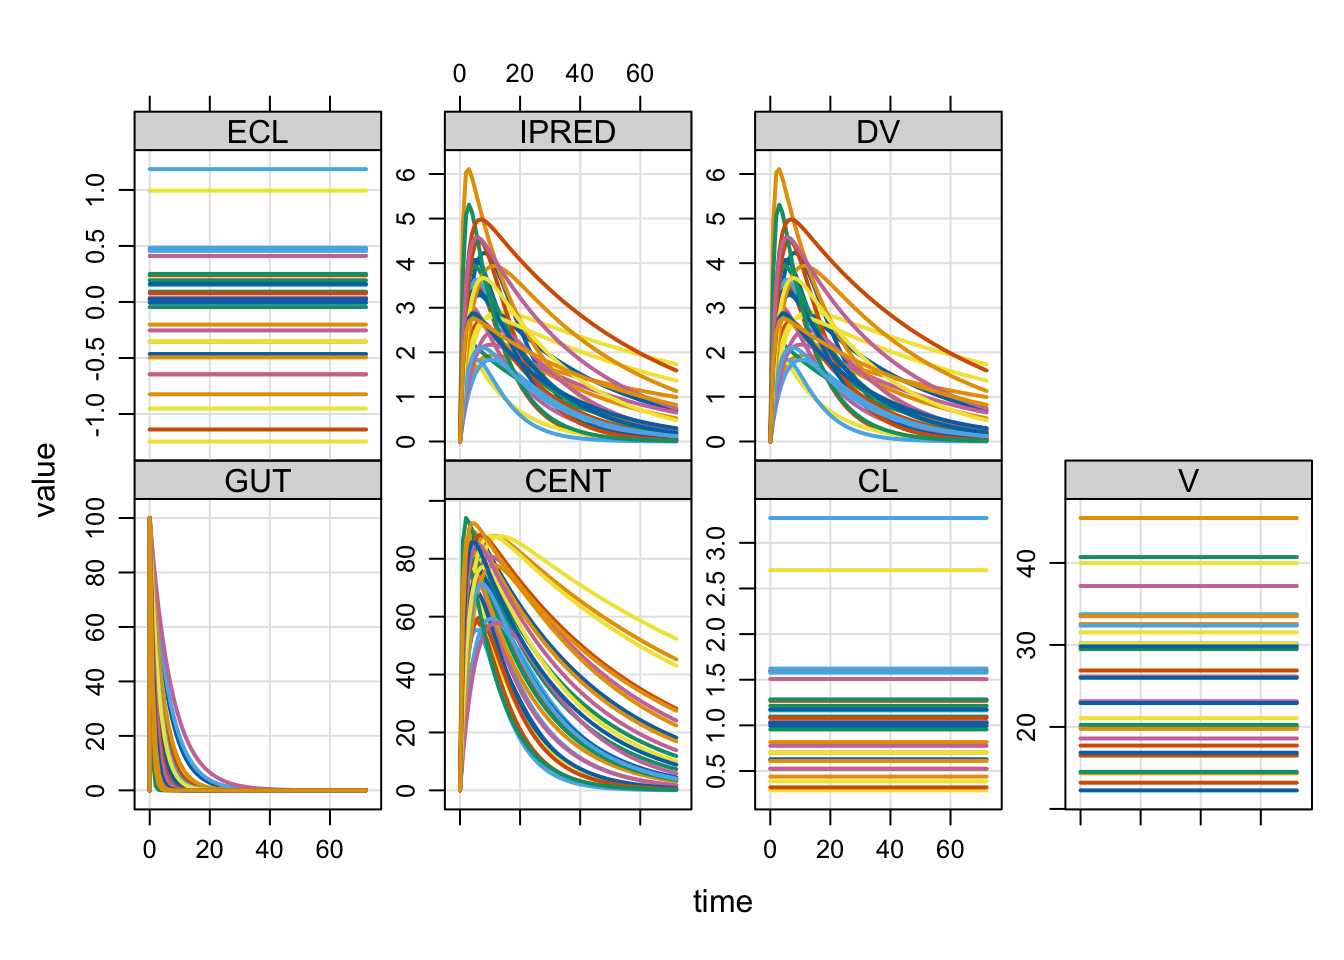
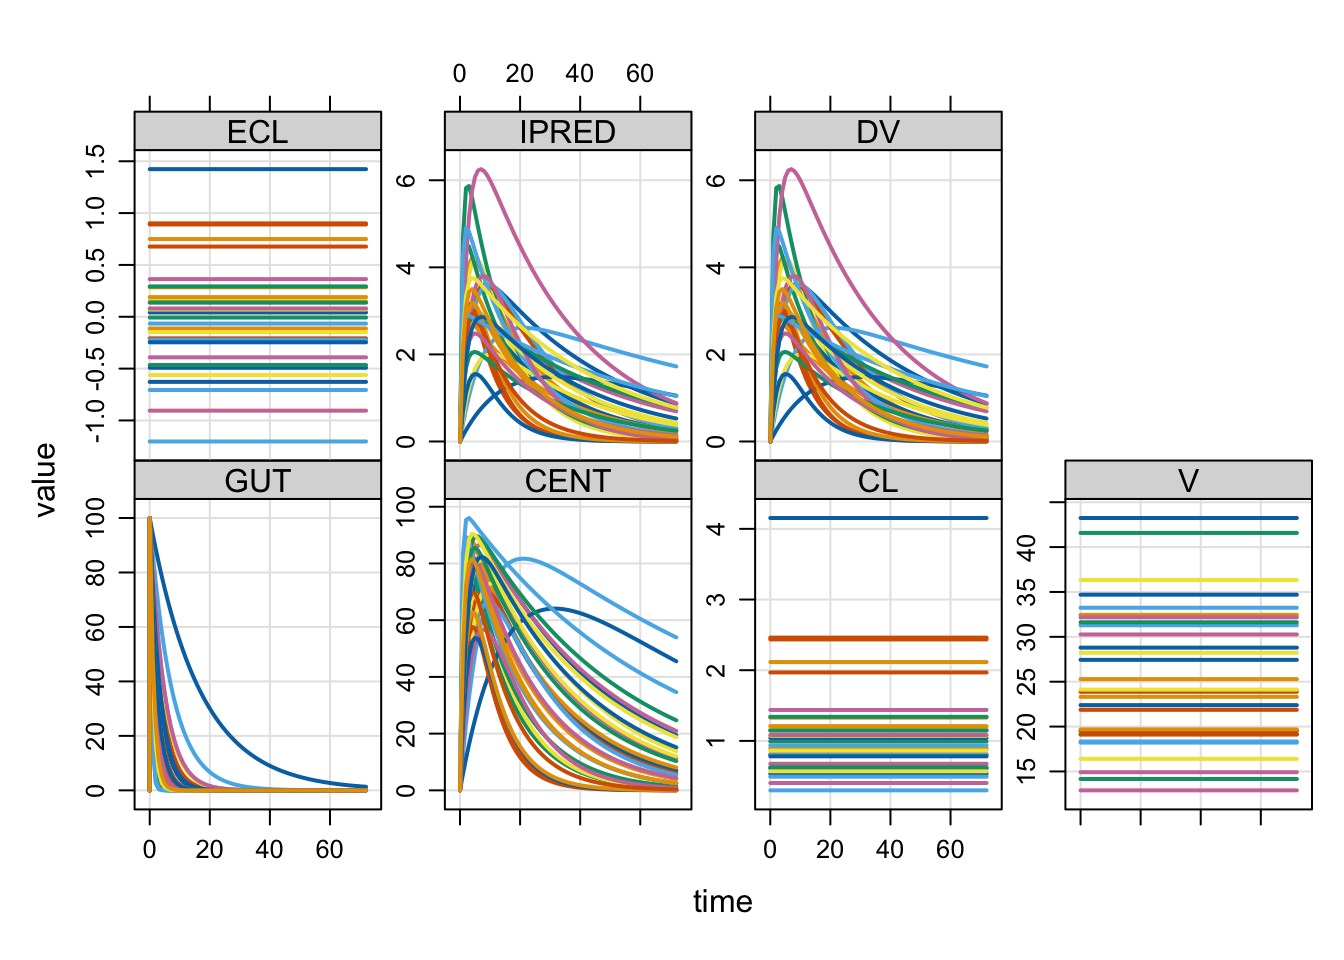
sections

diff --git a/docs/posts/new-0-10-7.html b/docs/posts/new-0-10-7.html
@@ -378,15 +378,15 @@ $capture
 Dim:    482 x 10 
 Time:   0 to 240 
 ID:     1 
-    ID time    GUT  CENT     CL     DV ETA_1 WT IPRED V
-1:   1  0.0   0.00  0.00 0.7503 0.0000     0  0     0 0
-2:   1  0.0 100.00  0.00 0.7503 0.0000     0  0     0 0
-3:   1  0.5  80.65 19.24 0.7503 0.5208     0  0     0 0
-4:   1  1.0  65.05 34.57 0.7503 0.9356     0  0     0 0
-5:   1  1.5  52.47 46.74 0.7503 1.2649     0  0     0 0
-6:   1  2.0  42.32 56.37 0.7503 1.5254     0  0     0 0
-7:   1  2.5  34.13 63.94 0.7503 1.7304     0  0     0 0
-8:   1  3.0  27.53 69.86 0.7503 1.8907     0  0     0 0</code></pre>
+    ID time    GUT   CENT   CL     DV    ETA_1 WT  IPRED     V
+1:   1  0.0   0.00  0.000 1.01 0.0000 0.009931 70 0.0000 31.96
+2:   1  0.0 100.00  0.000 1.01 0.0000 0.009931 70 0.0000 31.96
+3:   1  0.5  90.05  9.869 1.01 0.3088 0.009931 70 0.3088 31.96
+4:   1  1.0  81.09 18.601 1.01 0.5820 0.009931 70 0.5820 31.96
+5:   1  1.5  73.03 26.312 1.01 0.8233 0.009931 70 0.8233 31.96
+6:   1  2.0  65.76 33.106 1.01 1.0359 0.009931 70 1.0359 31.96
+7:   1  2.5  59.22 39.077 1.01 1.2228 0.009931 70 1.2228 31.96
+8:   1  3.0  53.33 44.308 1.01 1.3865 0.009931 70 1.3865 31.96</code></pre>
 </div>
 </div>
 <p>This is temporary until the model is re-compiled again</p>
@@ -456,15 +456,15 @@ $capture
 Dim:    482 x 3 
 Time:   0 to 240 
 ID:     1 
-    ID time IPRED
-1:   1  0.0 0.000
-2:   1  0.0 0.000
-3:   1  0.5 3.469
-4:   1  1.0 4.857
-5:   1  1.5 5.278
-6:   1  2.0 5.256
-7:   1  2.5 5.041
-8:   1  3.0 4.750</code></pre>
+    ID time  IPRED
+1:   1  0.0 0.0000
+2:   1  0.0 0.0000
+3:   1  0.5 0.4954
+4:   1  1.0 0.8817
+5:   1  1.5 1.1770
+6:   1  2.0 1.3967
+7:   1  2.5 1.5537
+8:   1  3.0 1.6593</code></pre>
 </div>
 </div>
 <p>Remember, we can still ask for non-numeric items to be brought into the data set with the <code>recover</code> argument</p>
@@ -478,12 +478,12 @@ ID:     1
     ID time IPRED name     state
 1:   1  0.0 0.000 KYLE minnesota
 2:   1  0.0 0.000 KYLE minnesota
-3:   1  0.5 1.798 KYLE minnesota
-4:   1  1.0 2.817 KYLE minnesota
-5:   1  1.5 3.383 KYLE minnesota
-6:   1  2.0 3.687 KYLE minnesota
-7:   1  2.5 3.840 KYLE minnesota
-8:   1  3.0 3.904 KYLE minnesota</code></pre>
+3:   1  0.5 0.982 KYLE minnesota
+4:   1  1.0 1.670 KYLE minnesota
+5:   1  1.5 2.147 KYLE minnesota
+6:   1  2.0 2.473 KYLE minnesota
+7:   1  2.5 2.690 KYLE minnesota
+8:   1  3.0 2.831 KYLE minnesota</code></pre>
 </div>
 </div>
 </section>
@@ -532,7 +532,7 @@ ID:     1
 </div>
 <div class="code-copy-outer-scaffold"><div class="sourceCode cell-code" id="cb32"><pre class="sourceCode r code-with-copy"><code class="sourceCode r"><span id="cb32-1"><a href="#cb32-1" aria-hidden="true" tabindex="-1"></a>mrgsolve<span class="sc">:::</span><span class="fu">unloadso.mrgmod</span>(mod)</span></code></pre></div><button title="Copy to Clipboard" class="code-copy-button"><i class="bi"></i></button></div>
 <div class="cell-output cell-output-stderr">
-<pre><code>unloaded pk1-so-caf770322f69.so</code></pre>
+<pre><code>unloaded pk1-so-d7d478a16241.so</code></pre>
 </div>
 <div class="code-copy-outer-scaffold"><div class="sourceCode cell-code" id="cb34"><pre class="sourceCode r code-with-copy"><code class="sourceCode r"><span id="cb34-1"><a href="#cb34-1" aria-hidden="true" tabindex="-1"></a>mrgsolve<span class="sc">:::</span><span class="fu">funset</span>(mod)</span></code></pre></div><button title="Copy to Clipboard" class="code-copy-button"><i class="bi"></i></button></div>
 <div class="cell-output cell-output-stdout">
@@ -546,7 +546,7 @@ ID:     1
 
 $shlib
               package    version compiled
-1 pk1-so-caf770322f69 2.0.0.9001     TRUE</code></pre>
+1 pk1-so-d7d478a16241 2.0.0.9001     TRUE</code></pre>
 </div>
 </div>
 <p>We can still simulate from this model; mrgsolve will determine that the model isn’t loaded and it will try to load it for you.</p>

diff --git a/docs/posts/duckdb.html b/docs/posts/duckdb.html
@@ -284,6 +284,9 @@ background: #097f5f;
    
   <ul>
   <li><a href="#introduction" id="toc-introduction" class="nav-link active" data-scroll-target="#introduction"><span class="header-section-number">1</span> Introduction</a></li>
+  <li><a href="#setup" id="toc-setup" class="nav-link" data-scroll-target="#setup"><span class="header-section-number">2</span> Setup</a></li>
+  <li><a href="#simulate" id="toc-simulate" class="nav-link" data-scroll-target="#simulate"><span class="header-section-number">3</span> Simulate</a></li>
+  <li><a href="#summarize" id="toc-summarize" class="nav-link" data-scroll-target="#summarize"><span class="header-section-number">4</span> Summarize</a></li>
   </ul>
 </nav>
     </div>
@@ -297,6 +300,9 @@ background: #097f5f;
 <section id="introduction" class="level1" data-number="1">
 <h1 data-number="1"><span class="header-section-number">1</span> Introduction</h1>
 <p>This is a quick blog post showing how you can summarize a very large set of simulations using duckdb.</p>
+</section>
+<section id="setup" class="level1" data-number="2">
+<h1 data-number="2"><span class="header-section-number">2</span> Setup</h1>
 <div class="cell">
 <div class="code-copy-outer-scaffold"><div class="sourceCode cell-code" id="cb1"><pre class="sourceCode r code-with-copy"><code class="sourceCode r"><span id="cb1-1"><a href="#cb1-1" aria-hidden="true" tabindex="-1"></a><span class="fu">library</span>(mrgsim.ds)</span>
 <span id="cb1-2"><a href="#cb1-2" aria-hidden="true" tabindex="-1"></a><span class="fu">library</span>(DBI)</span>
@@ -327,6 +333,9 @@ background: #097f5f;
 <span id="cb4-9"><a href="#cb4-9" aria-hidden="true" tabindex="-1"></a></span>
 <span id="cb4-10"><a href="#cb4-10" aria-hidden="true" tabindex="-1"></a>data <span class="ot">&lt;-</span> <span class="fu">mutate</span>(data, <span class="at">dose =</span> amt)</span></code></pre></div><button title="Copy to Clipboard" class="code-copy-button"><i class="bi"></i></button></div>
 </div>
+</section>
+<section id="simulate" class="level1" data-number="3">
+<h1 data-number="3"><span class="header-section-number">3</span> Simulate</h1>
 <p>Simulate 1000 replicates</p>
 <div class="cell">
 <div class="code-copy-outer-scaffold"><div class="sourceCode cell-code" id="cb5"><pre class="sourceCode r code-with-copy"><code class="sourceCode r"><span id="cb5-1"><a href="#cb5-1" aria-hidden="true" tabindex="-1"></a><span class="fu">unlink</span>(<span class="st">"temp-post"</span>, <span class="at">recursive =</span> <span class="cn">TRUE</span>)</span>
@@ -366,6 +375,9 @@ Owner: yes (no gc)
 8:   1    6 8.696203  300   1</code></pre>
 </div>
 </div>
+</section>
+<section id="summarize" class="level1" data-number="4">
+<h1 data-number="4"><span class="header-section-number">4</span> Summarize</h1>
 <p>Summarize using duckdb; we’ll take median, 5th and 95th percentiles of the Week 4 trough concentration by dose and replicate.</p>
 <div class="cell">
 <div class="code-copy-outer-scaffold"><div class="sourceCode cell-code" id="cb8"><pre class="sourceCode r code-with-copy"><code class="sourceCode r"><span id="cb8-1"><a href="#cb8-1" aria-hidden="true" tabindex="-1"></a>con <span class="ot">&lt;-</span> <span class="fu">dbConnect</span>(<span class="fu">duckdb</span>())</span>
@@ -393,7 +405,7 @@ Owner: yes (no gc)
 <span id="cb8-23"><a href="#cb8-23" aria-hidden="true" tabindex="-1"></a>)</span></code></pre></div><button title="Copy to Clipboard" class="code-copy-button"><i class="bi"></i></button></div>
 <div class="cell-output cell-output-stdout">
 <pre><code>   user  system elapsed 
- 61.964   8.996  11.462 </code></pre>
+ 62.202   9.311  13.471 </code></pre>
 </div>
 <div class="code-copy-outer-scaffold"><div class="sourceCode cell-code" id="cb10"><pre class="sourceCode r code-with-copy"><code class="sourceCode r"><span id="cb10-1"><a href="#cb10-1" aria-hidden="true" tabindex="-1"></a><span class="fu">dbDisconnect</span>(con, <span class="at">shutdown =</span> <span class="cn">TRUE</span>)</span></code></pre></div><button title="Copy to Clipboard" class="code-copy-button"><i class="bi"></i></button></div>
 </div>

diff --git a/docs/posts/2018-pred.html b/docs/posts/2018-pred.html
@@ -337,12 +337,12 @@ background: #097f5f;
 <pre><code># A tibble: 6 × 2
      ID      B
   &lt;dbl&gt;  &lt;dbl&gt;
-1     1 0.0889
-2     1 0.133 
-3     1 2.13  
-4     1 0.515 
-5     1 0.976 
-6     1 0.944 </code></pre>
+1     1 0.283 
+2     1 1.16  
+3     1 0.0828
+4     1 3.43  
+5     1 0.0897
+6     1 1.87  </code></pre>
 </div>
 </div>
 <div class="cell">

diff --git a/docs/posts/2023-new-1.0.8.html b/docs/posts/2023-new-1.0.8.html
@@ -405,11 +405,11 @@ background: #097f5f;
 Dim:    4 x 5 
 Time:   0 to 0 
 ID:     4 
-    ID time     ETA1     ETA2     ETA3
-1:   1    0 -1.15086  0.53365  0.79601
-2:   2    0  0.06249 -0.37514  1.14863
-3:   3    0  0.21990 -0.06385 -0.57406
-4:   4    0 -0.45401  0.69602  0.01115</code></pre>
+    ID time   ETA1    ETA2   ETA3
+1:   1    0 -1.236 -0.8685  2.320
+2:   2    0  0.300  3.3284 -2.373
+3:   3    0  1.798 -3.5058 -1.846
+4:   4    0  1.134 -1.3386 -1.379</code></pre>
 </div>
 </div>
 <p>When you have <code>ETA</code>s coded into your data set</p>

diff --git a/docs/posts/2024-new-1-5-1.html b/docs/posts/2024-new-1-5-1.html
@@ -490,8 +490,8 @@ run = "@cppstem"</code></pre>
 
 ---------------  source: updated.mod  ---------------
 
-  project: /private/var/fol.../T/RtmpvcVX1f
-  shared object: updated.mod-so-cc076a8b55c5 
+  project: /private/var/fol.../T/RtmpGTPKz5
+  shared object: updated.mod-so-d8c66275abac 
 
   time:          start: 0 end: 168 delta: 1
                  add: &lt;none&gt;

diff --git a/docs/index.html b/docs/index.html
@@ -292,7 +292,7 @@ window.Quarto = {
 
 <div class="quarto-listing quarto-listing-container-default" id="listing-listing">
 <div class="list quarto-listing-default">
-<div class="quarto-post image-right" data-index="0" data-categories="ZHVja2Ri" data-listing-date-sort="1778043600000" data-listing-file-modified-sort="1778074285853" data-listing-date-modified-sort="NaN" data-listing-reading-time-sort="2" data-listing-word-count-sort="308">
+<div class="quarto-post image-right" data-index="0" data-categories="ZHVja2Ri" data-listing-date-sort="1778043600000" data-listing-file-modified-sort="1778075504227" data-listing-date-modified-sort="NaN" data-listing-reading-time-sort="2" data-listing-word-count-sort="312">
 <div class="thumbnail"><a href="./posts/duckdb.html" class="no-external">
 
 <div class="listing-item-img-placeholder card-img-top" >&nbsp;</div>